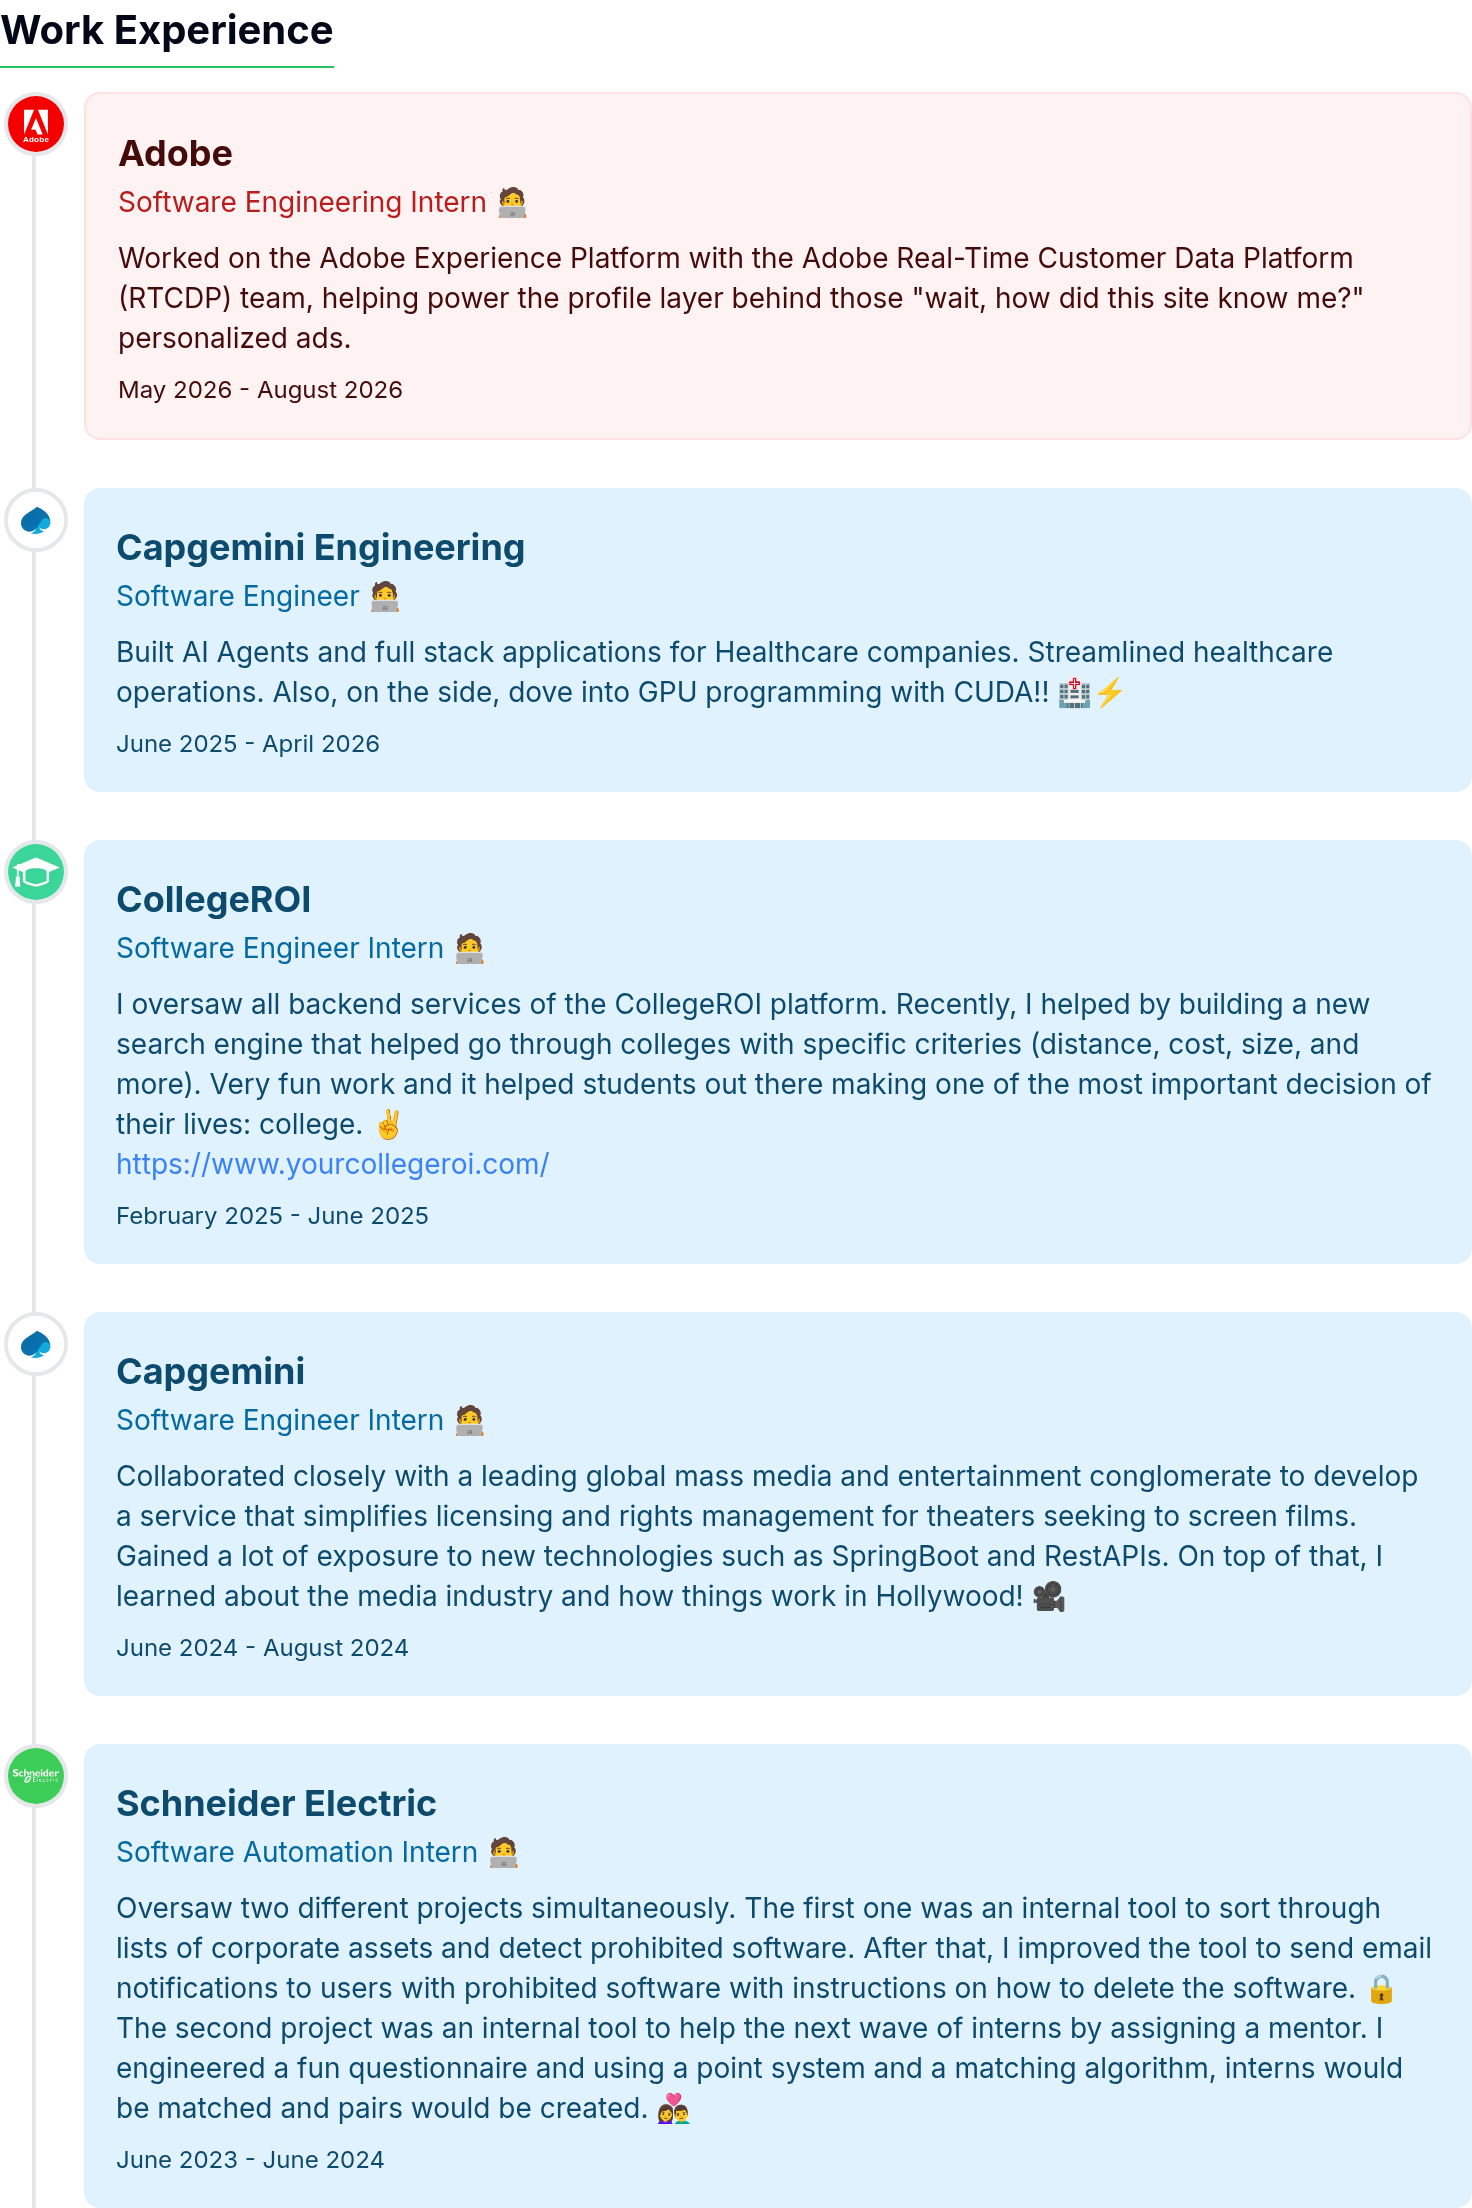
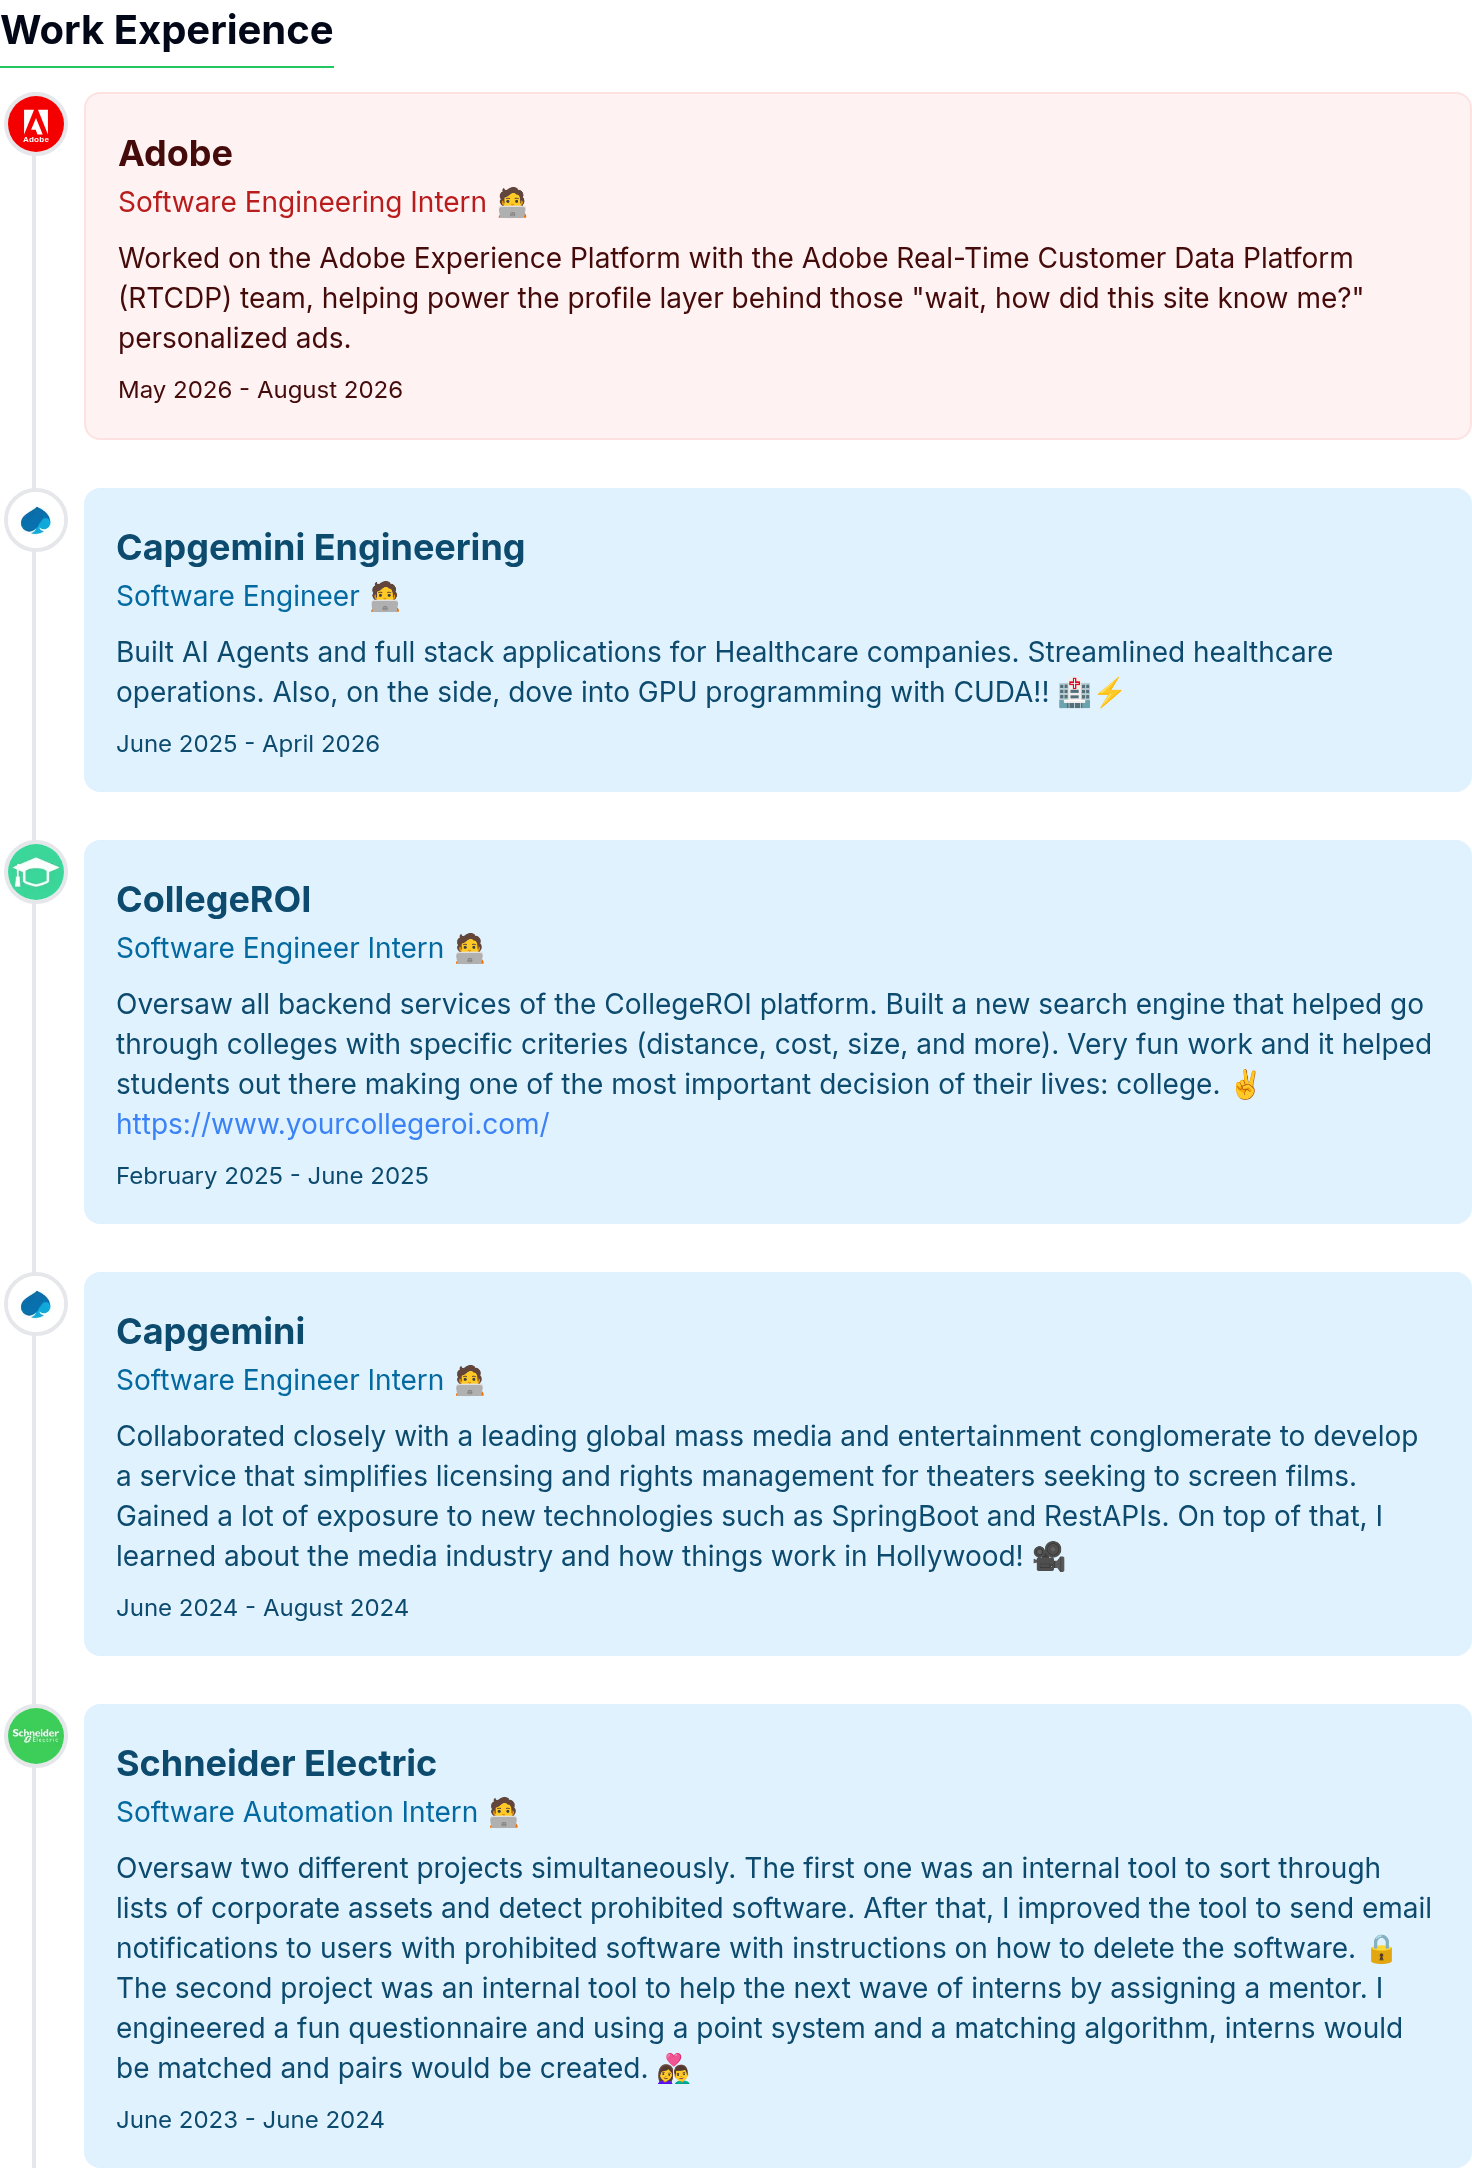
Refine CollegeROI experience wording and refresh screenshot

diff --git a/app/page.tsx b/app/page.tsx
@@ -663,7 +663,7 @@ function DesktopPortfolio() {
                 <h3 className="text-lg font-bold">CollegeROI</h3>
                 <p className="text-sm text-sky-700">Software Engineer Intern 🧑💻</p>
                 <p className="mt-2 text-sm">
-                  I oversaw all backend services of the CollegeROI platform. Recently, I helped by building a new search engine that helped go through colleges with specific criteries (distance, cost, size, and more). Very fun work and it helped students out there making one of the most important decision of their lives: college. ✌ <br />
+                  Oversaw all backend services of the CollegeROI platform. Built a new search engine that helped go through colleges with specific criteries (distance, cost, size, and more). Very fun work and it helped students out there making one of the most important decision of their lives: college. ✌ <br />
                   <a href="https://www.yourcollegeroi.com/" className="text-blue-500 hover:underline">https://www.yourcollegeroi.com/</a>
                 </p>
                 <p className="mt-2 text-xs">February 2025 - June 2025</p>
